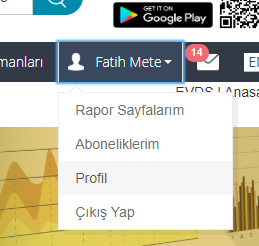
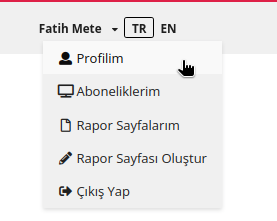
feat: update README and API base URL, add pyproject.toml, bump version to 0.4.0 (#21)

diff --git a/evds/__init__.py b/evds/__init__.py
@@ -4,6 +4,8 @@ import json
 import ssl
 import urllib3
 
+BASE_URL = "https://evds3.tcmb.gov.tr/igmevdsms-dis/"
+
 class CustomHttpAdapter (requests.adapters.HTTPAdapter):
     # "Transport adapter" that allows us to use custom ssl_context.
     def __init__(self, ssl_context=None, **kwargs):
@@ -31,6 +33,7 @@ class evdsAPI:
         self.proxies = proxies
         self.httpsVerify = httpsVerify
         self.legacySSL = legacySSL
+        self.base_url = BASE_URL
 
         self.__create_session()
 
@@ -39,7 +42,7 @@ class evdsAPI:
         else:
             self.lang = "TR"
         # API returns this main categories but they are not available
-        self.not_available_categories = [17]
+        self.not_available_categories = []
 
         self.main_categories = self.__get_main_categories()
 
@@ -58,7 +61,7 @@ class evdsAPI:
         """
         Function returns main categories dataframe.
         """
-        main_categories = self.__make_request('https://evds2.tcmb.gov.tr/service/evds/categories/',
+        main_categories = self.__make_request(self.base_url + 'categories/',
                                               params={'type': 'json'})
         try:
             main_categories_raw = json.loads(main_categories)
@@ -97,12 +100,18 @@ class evdsAPI:
             except:
                 raise CategoryNotFoundError("Category not found.")
 
-        sub_categories = self.__make_request('https://evds2.tcmb.gov.tr/service/evds/datagroups/',
+        sub_categories = self.__make_request(self.base_url + 'datagroups/',
                                              params=params)
         sub_categories = json.loads(sub_categories)
+
         if raw:
             return sub_categories
         df = pd.DataFrame(sub_categories)
+        
+        # V3 API returns empty json for parent categories
+        if df.empty:
+            return df
+        
         if detail == False:
             return df[["CATEGORY_ID",
                        "DATAGROUP_CODE",
@@ -115,7 +124,7 @@ class evdsAPI:
         The function returns dataframe of series which belongs to given data group.
         Because of default detail parameter is False, only return "SERIE_CODE", "SERIE_NAME" and "START_DATE" value.
         """
-        series = self.__make_request('https://evds2.tcmb.gov.tr/service/evds/serieList/',
+        series = self.__make_request(self.base_url + 'serieList/',
                                      params={'type': 'json', 'code': datagroup_code})
         series = json.loads(series)
         if raw:
@@ -191,7 +200,7 @@ class evdsAPI:
             formula_param = "-".join([str(formulas)
                                      for i in range(series_count)])
 
-        data = self.__make_request('https://evds2.tcmb.gov.tr/service/evds/',
+        data = self.__make_request(self.base_url,
                                    params={
                                        'series': "-".join(series),
                                        'startDate': startdate,

diff --git a/setup.py b/setup.py
@@ -5,7 +5,7 @@ with open("README.md", "r", encoding="utf8") as fh:
 
 setuptools.setup(
     name="evds",
-    version="0.3.2",
+    version="0.4.0",
     author="Fatih Mete",
     author_email="fatihmete@live.com",
     description="EVDS python wrapper",

diff --git a/README.md b/README.md
@@ -16,6 +16,10 @@ pip install evds --upgrade
 
 ## Yenilikler
 
+0.4 sürümü ile aşağıdaki değişiklikler yapıldı:
+
+1. EVDS3 sürümü ile uyum sağlandı.
+
 0.3 sürümü ile aşağıdaki değişiklikler yapıldı:
 
 1. SSL hatalarının giderilmesi için legacySSL parametresi eklendi. [PR #8](https://github.com/fatihmete/evds/pull/8)
@@ -54,13 +58,12 @@ get_data fonksiyonu DataFrame return edecektir. İstenmesi halinde `raw=True` pa
 
 evds paketini kullanmak için öncelikle EVDS sistemi üzerinden API Anahtarı almanız gerekmektedir. API Anahtarı almak için aşağıdaki adımları izleyiniz:
 
-1. [EVDS](https://evds2.tcmb.gov.tr/) sayfasına giriş yaptıktan sonra Giriş Yap ve Kayıt Ol bağlantılarını izleyerek bir EVDS hesabı oluşturun.
-2. Ardından kullanıcı adınızın altında yer alan profil bağlantısına tıklayınız.
+1. [EVDS](https://evds3.tcmb.gov.tr/) sayfasına giriş yaptıktan sonra "BENİM SAYFAM" ve Kayıt yolunu izleyerek bir EVDS hesabı oluşturun.
+2. Ardından kullanıcı adınızın altında yer alan "Profilim" bağlantısına tıklayınız.
 
 ![01](01.png)
 
-3. Profil sayfanızın alt kısmında yer alan "API Anahtarı" butonuna tıklayınız ve açılan kutucukta yer alan değeri kopyalayınız.
-
+3. Profil sayfanızın alt kısmında yer alan "API Key Kopyala" butonuna basınız.
 ![02](02.png)
 
 ### Detaylı Sorgulama

diff --git a/README_EN.md b/README_EN.md
@@ -34,12 +34,12 @@ evds.get_data(['TP.DK.USD.A.YTL','TP.DK.EUR.A.YTL'], startdate="01-01-2019", end
 ```
 ### Get API Key
 To use the evds package, you must first get the API Key on the EVDS system. To get the API Key, follow the steps below:
-1. Open [EVDS](https://evds2.tcmb.gov.tr/) page and create an EVDS Account.
-2. Then click on the profile link under your username.
+1. Open [EVDS](https://evds3.tcmb.gov.tr/) page and create an EVDS Account.
+2. Then click on the "My Profile" link under your username.
 
 ![01](01.png)
 
-3. Click the "API Key" button at the bottom of your profile page and copy the value in the box that opens.
+3. Click the "Copy API Key" button.
 
 ![02](02.png)
 
